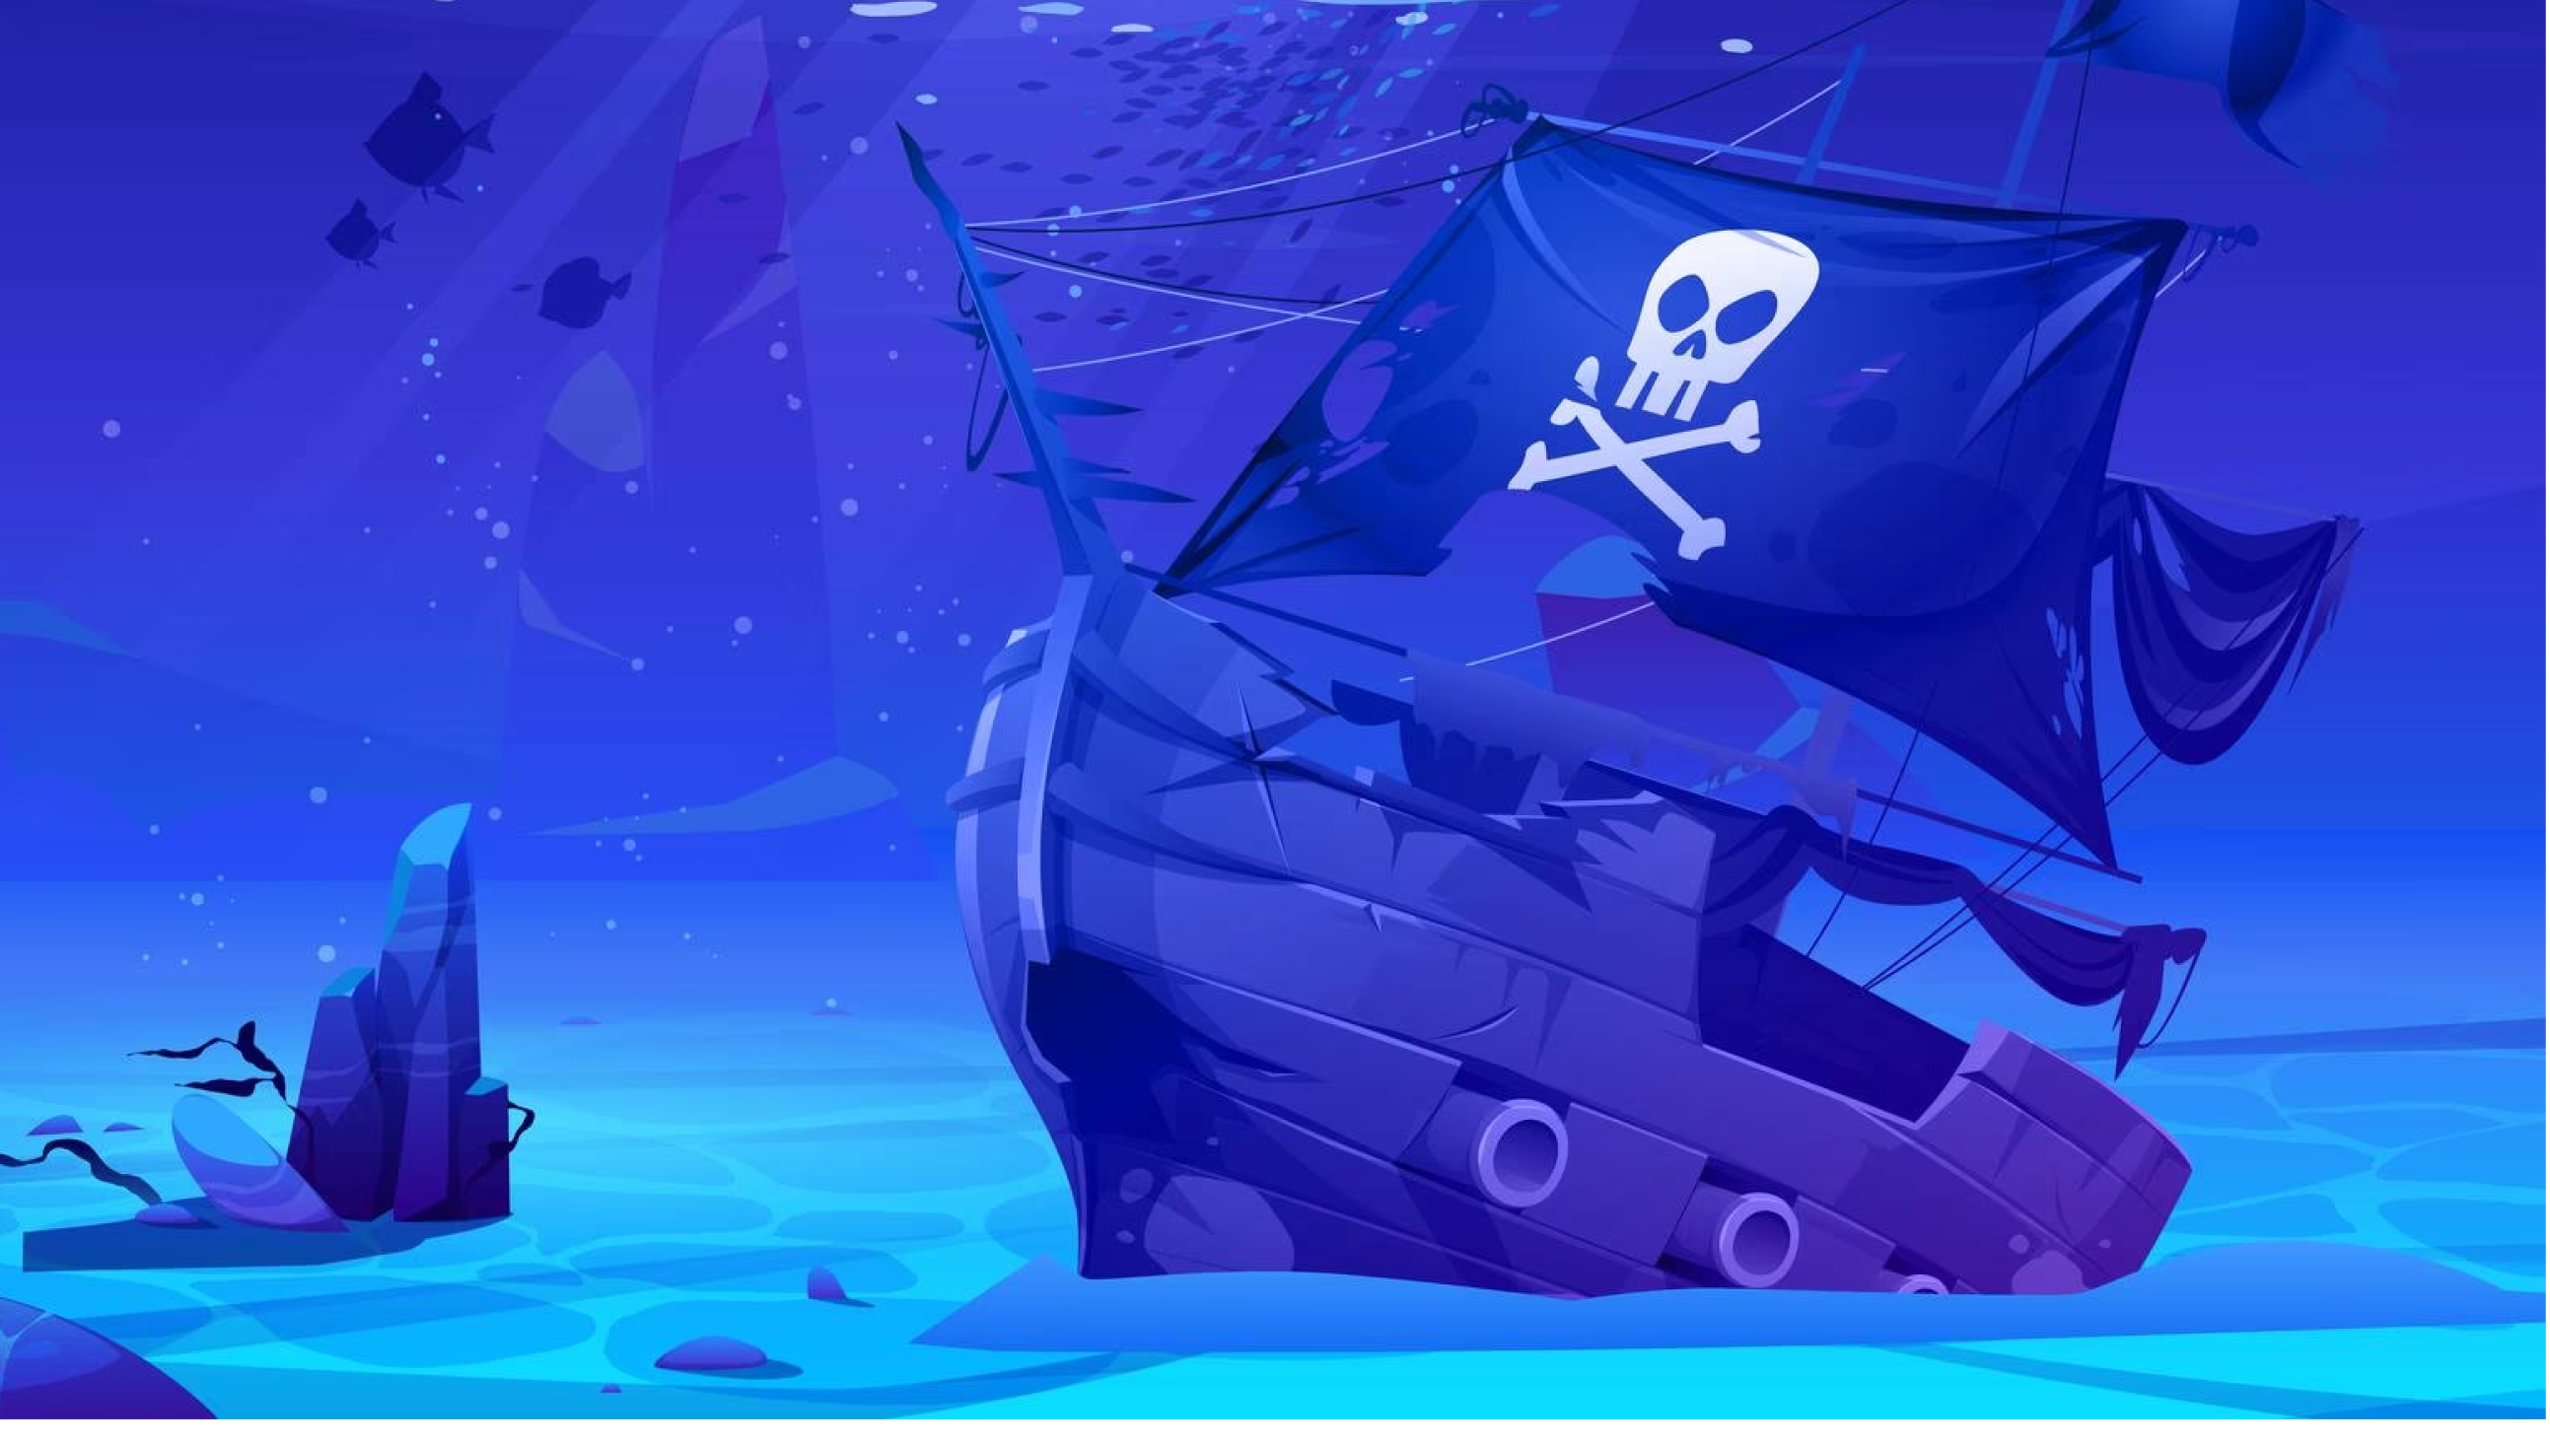
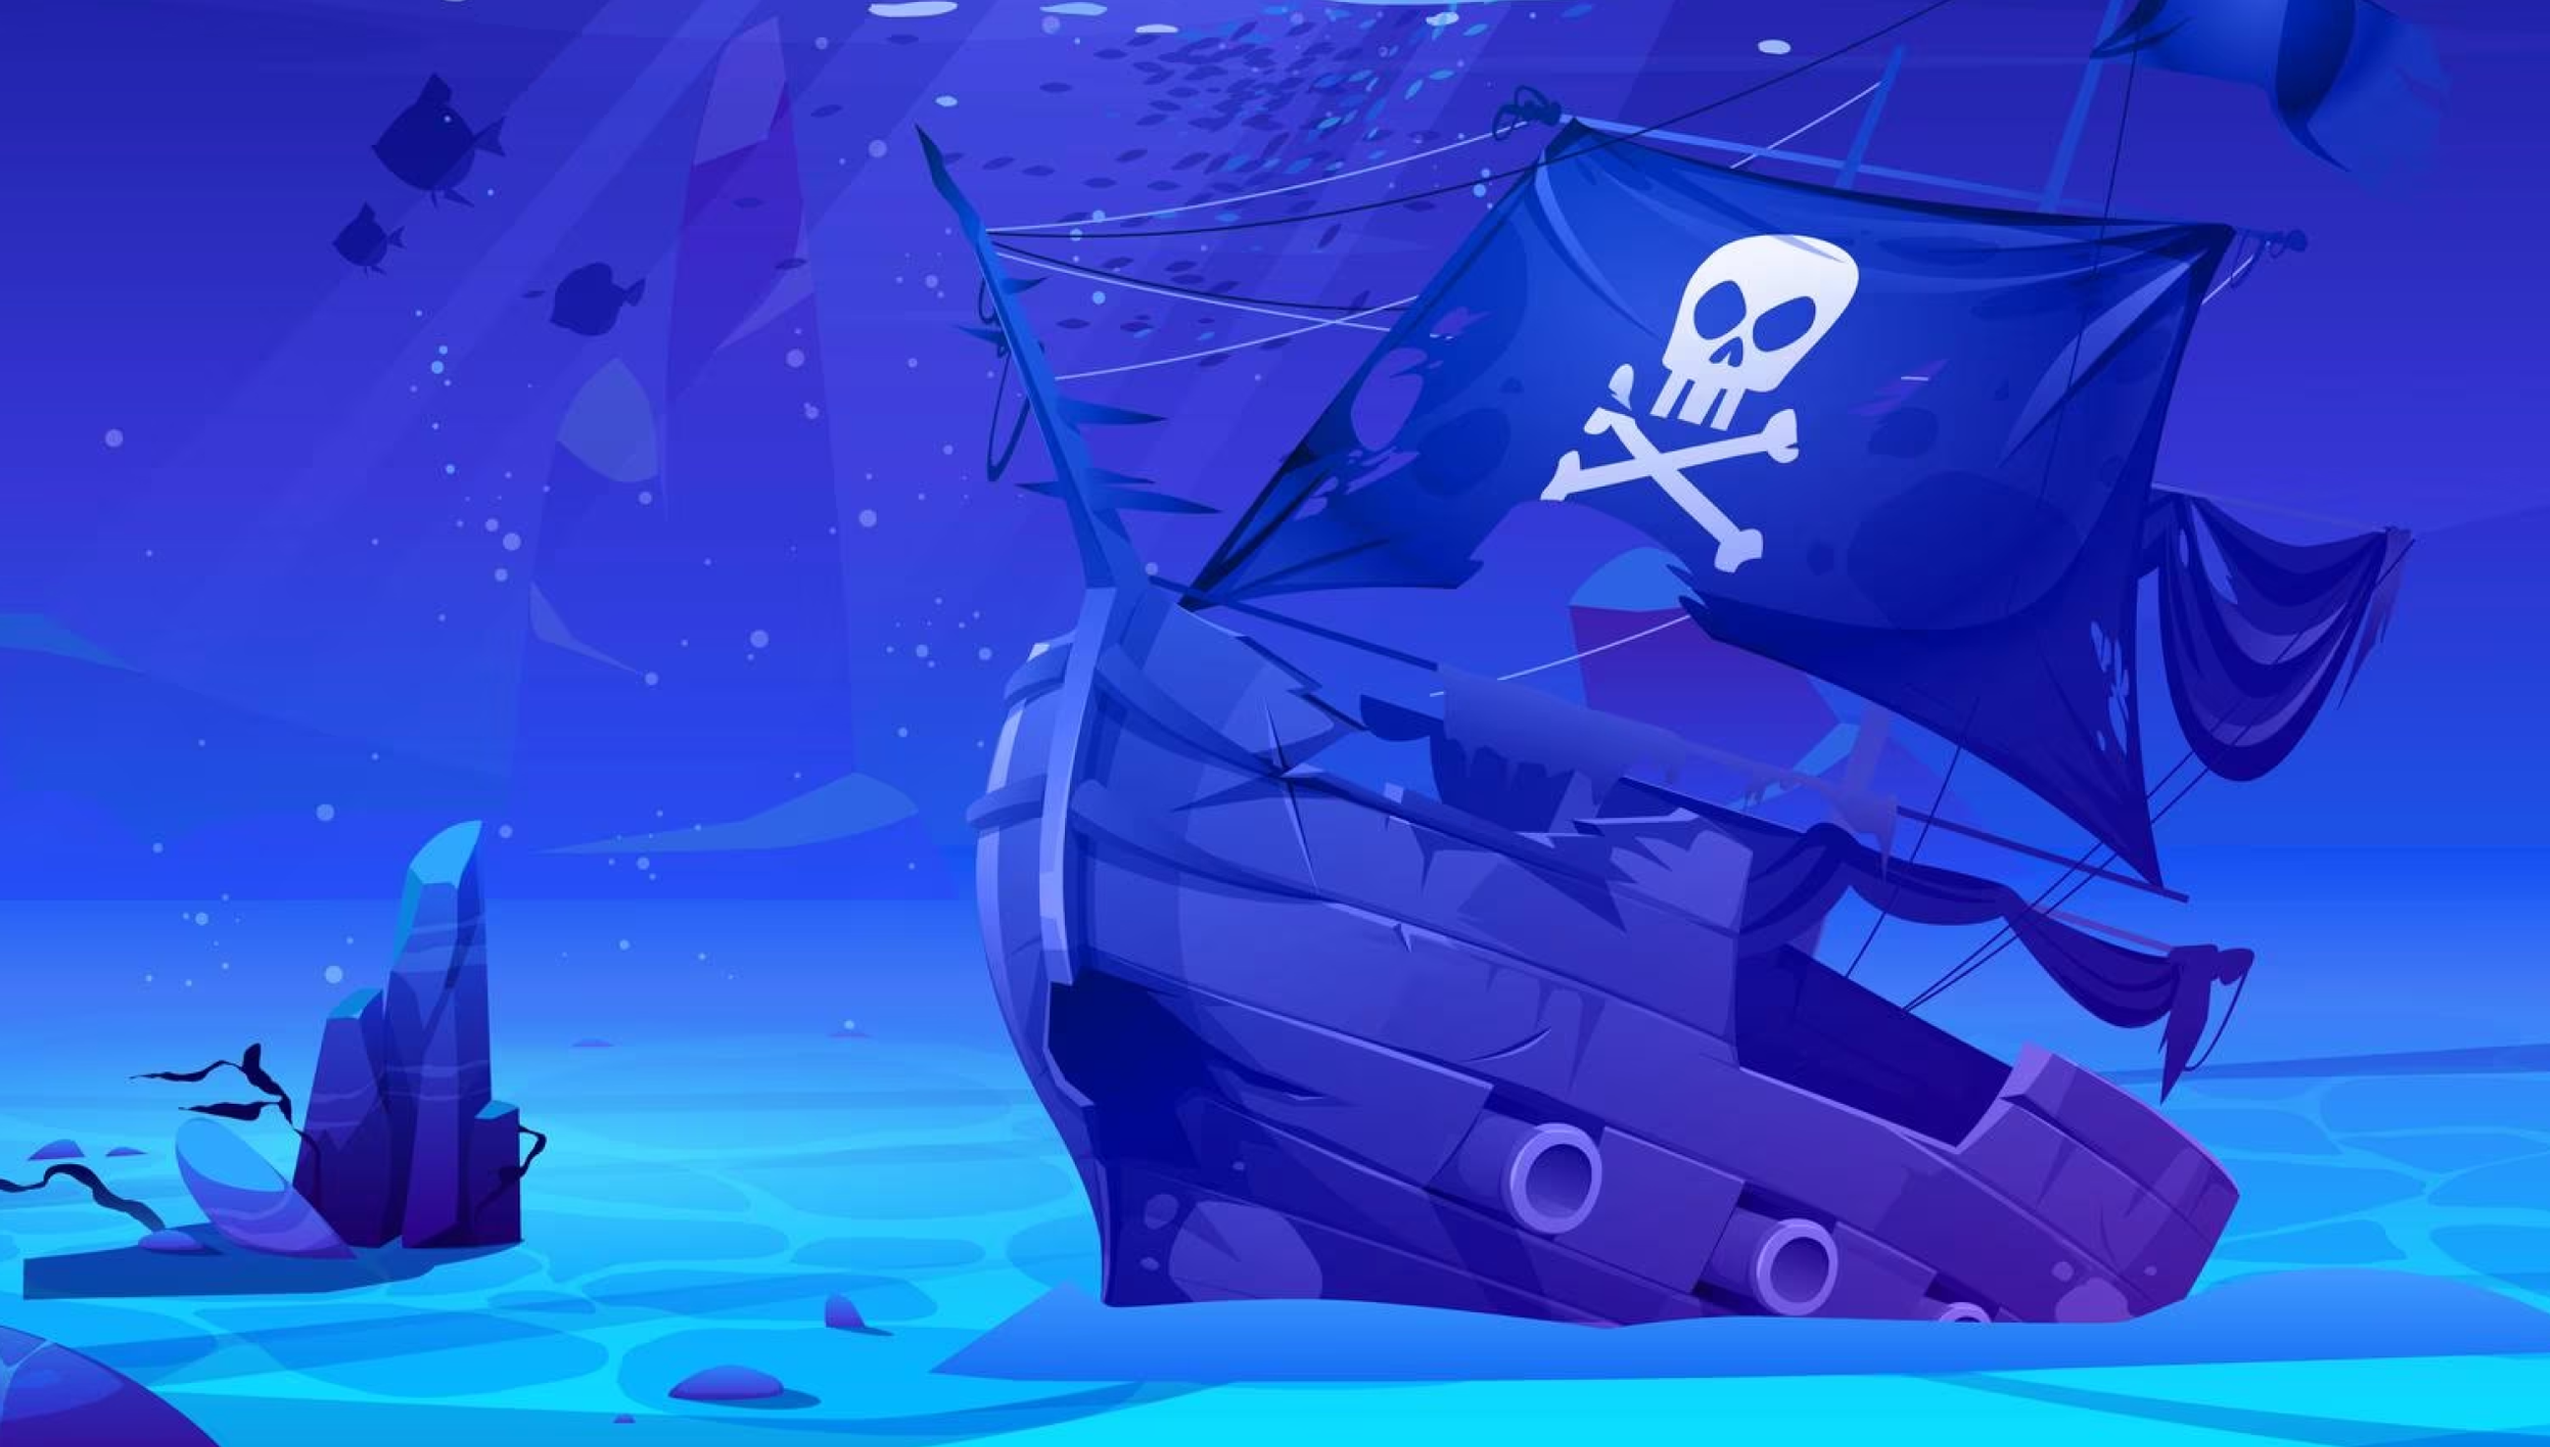
added more backgrounds

diff --git a/data/gameData.js b/data/gameData.js
@@ -632,6 +632,93 @@ export const gameData = {
       text2: "#ffcccc",
       track: "pillar-space",
     },
+
+    // CHANGE UP COLOR PALETTE AND TRACKS OF THESE BELOW
+
+    "Sandy Ruins": {
+      itemName: "Sandy Ruins",
+      rarity: "Rare",
+      desc: "The ruins of an ancient civilization. A dangerous place to be, but fit for adventure.",
+      isBg: true,
+      pfp: "sandy-ruins.png",
+      bg: "sandy-ruins.png",
+      buyPrice: 1000,
+      buyCurrency: 0,
+      primary1: "#a83e3e",
+      primary2: "#c86a6a",
+      secondary1: "#a83e3e",
+      secondary2: "#692426",
+      white: "#FEE2B5",
+      grey: "#DDDAD4",
+      black: "#1E111A",
+      text1: "#ffcccc",
+      text2: "#ffcccc",
+      track: "pillar-space",
+    },
+
+    "Stony Beach": {
+      itemName: "Stony Beach",
+      rarity: "Rare",
+      desc: "You know that feeling you get when you step on rocks while at the beach? Yeah, that's what this is.",
+      isBg: true,
+      pfp: "stony-beach.png",
+      bg: "stony-beach.png",
+      buyPrice: 1000,
+      buyCurrency: 0,
+      primary1: "#a83e3e",
+      primary2: "#c86a6a",
+      secondary1: "#a83e3e",
+      secondary2: "#692426",
+      white: "#FEE2B5",
+      grey: "#DDDAD4",
+      black: "#1E111A",
+      text1: "#ffcccc",
+      text2: "#ffcccc",
+      track: "pillar-space",
+    },
+
+    "Thunder City": {
+      itemName: "Thunder City",
+      rarity: "Rare",
+      desc: "Some people hate the rain. Most people hate standing in a thunderstorm. But not you apparently.",
+      isBg: true,
+      pfp: "thunder-city.png",
+      bg: "thunder-city.png",
+      buyPrice: 1000,
+      buyCurrency: 0,
+      primary1: "#a83e3e",
+      primary2: "#c86a6a",
+      secondary1: "#a83e3e",
+      secondary2: "#692426",
+      white: "#FEE2B5",
+      grey: "#DDDAD4",
+      black: "#1E111A",
+      text1: "#ffcccc",
+      text2: "#ffcccc",
+      track: "pillar-space",
+    },
+
+    "Underwater Shipwreck": {
+      itemName: "Underwater Shipwreck",
+      rarity: "Rare",
+      desc: "It's said that this ship was once that of the legendary pirate slime, Captain Slimebeard.",
+      isBg: true,
+      pfp: "underwater-shipwreck.png",
+      bg: "underwater-shipwreck.png",
+      buyPrice: 1000,
+      buyCurrency: 0,
+      primary1: "#a83e3e",
+      primary2: "#c86a6a",
+      secondary1: "#a83e3e",
+      secondary2: "#692426",
+      white: "#FEE2B5",
+      grey: "#DDDAD4",
+      black: "#1E111A",
+      text1: "#ffcccc",
+      text2: "#ffcccc",
+      track: "pillar-space",
+    },
+
   },
 
   baseProduction: {
